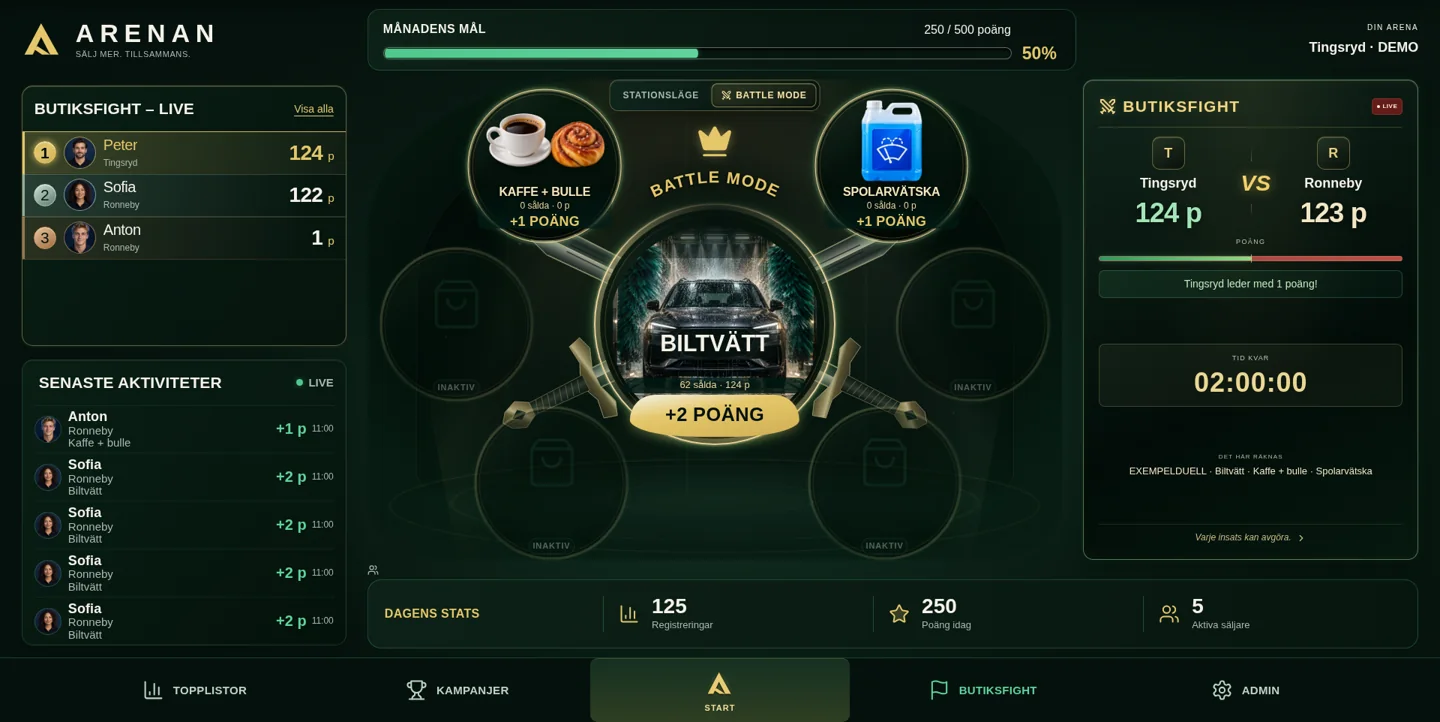
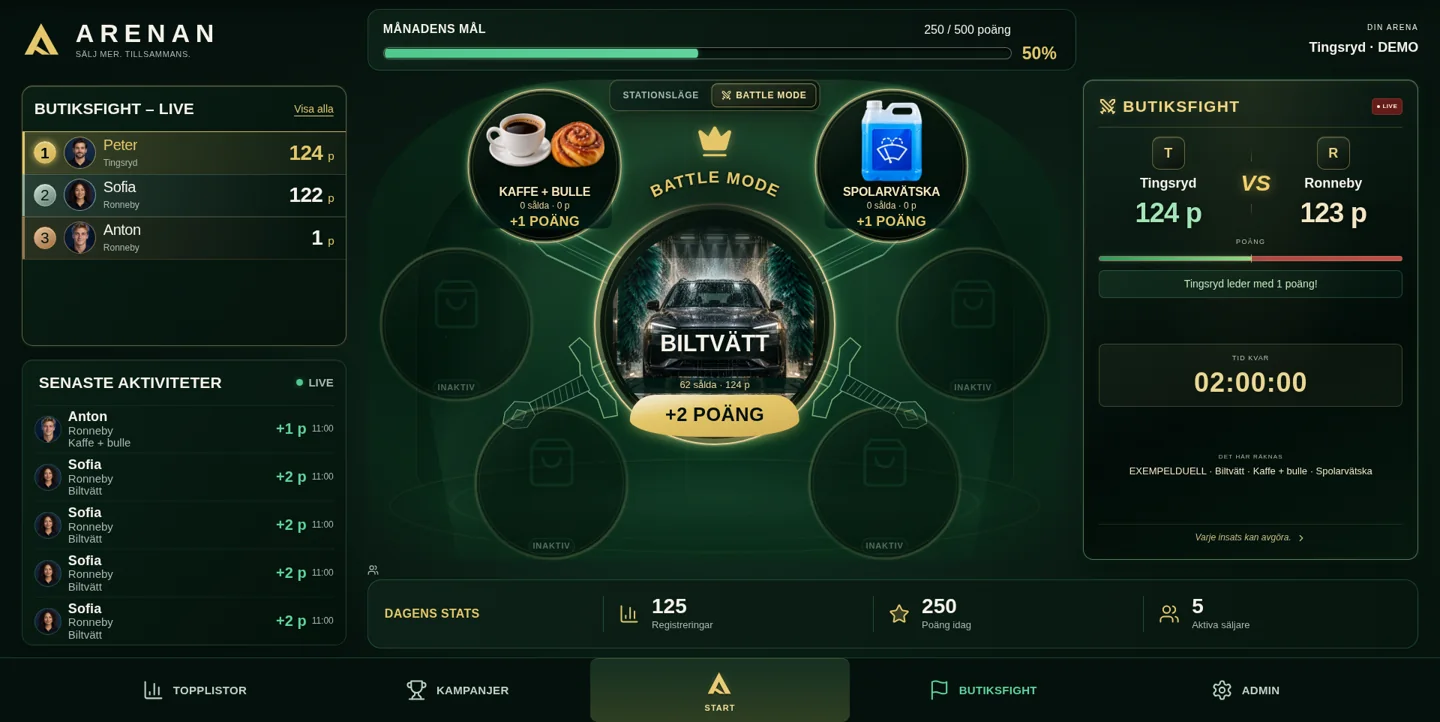
Arena V1: polish Battle Mode atmosphere

Changed region(s): [[0.3125, 0.1219, 0.6562, 0.6704]]

diff --git a/src/arena-battle-mode.css b/src/arena-battle-mode.css
@@ -60,3 +60,9 @@
 
 @media(max-height:500px) and (orientation:landscape){.arena-mode-switch button{gap:3px;letter-spacing:.01em!important}.arena-mode-switch button svg{width:11px;height:11px}}
 @media(min-width:951px) and (max-height:900px){.arena-mode-switch{top:-3px;padding:3px}.arena-mode-switch button{padding:5px 9px!important;font-size:10px;min-height:28px;letter-spacing:.04em}}
+/* V3: luminous green contours instead of solid metallic foreground blades.
+   Static SVG fills/strokes and stage gradients; no filter/blur/animation layer. */
+.arena-stage-start.is-battle .arena-stage-atmosphere{background:radial-gradient(ellipse at 50% 62%,#217f4938,transparent 68%),radial-gradient(ellipse at 50% 22%,#54ac7133,transparent 65%),radial-gradient(ellipse at 50% 48%,#011b0fde 12%,#01180ed9 52%,#072d1675 77%,transparent 100%)}
+.is-battle .arena-stage-beams{background:linear-gradient(118deg,transparent 22%,#87d6a219 29%,transparent 40%),linear-gradient(242deg,transparent 22%,#5fbf8a19 29%,transparent 40%),radial-gradient(ellipse at 50% 15%,#a0d9901c,transparent 55%)}
+.arena-battle-swords{opacity:.76}.arena-battle-swords .blade{fill:#0b432c70;stroke:#97e5aeaa;stroke-width:2.4}.arena-battle-swords .blade-edge{stroke:#ccf1bf;stroke-width:1.3;opacity:.55}.arena-battle-swords .blade-fuller{stroke:#63c58e;stroke-width:1;opacity:.4}.arena-battle-swords .sword-guard{fill:#103c2a;stroke:#a6d395;stroke-width:2}.arena-battle-swords .sword-grip{fill:#082a1d;stroke:#82bc95;stroke-width:1.5}.arena-battle-swords .sword-binding{stroke:#8cba8b;opacity:.65}.arena-battle-swords .sword-pommel-frame{fill:#103e2a;stroke:#a4d29b;stroke-width:1.5}.arena-battle-swords .sword-pommel{fill:#1c5337;stroke:#d3dfaa}
+.arena-stage-start.is-battle .arena-orb:not(:disabled){box-shadow:0 0 2px #e4d39a8c,0 0 15px #59b67e3b,0 0 28px #368d5726,inset 0 1px 6px #d9c7961c,inset 0 -9px 18px #0006}.arena-stage-start.is-battle .arena-orb-focus:not(:disabled){box-shadow:0 0 3px #ead7a099,0 0 20px #9cba733b,0 0 36px #44a46d35,inset 0 0 12px #d4bd6122}

diff --git a/src/ArenaBattle.tsx b/src/ArenaBattle.tsx
@@ -15,9 +15,9 @@ export function BattleSwords() {
    <path className="blade-fuller" d="M394 128 391 583M406 128 409 583"/>
    <g transform="translate(0 80)">
    <path className="sword-guard" fill={`url(#${id}-gold)`} d="M328 536 351 528 385 540 415 540 449 528 472 536 466 558 434 554 416 562 384 562 366 554 334 558Z"/>
-   <path fill={`url(#${id}-leather)`} stroke="#8f805b" d="M386 559 414 559 411 663 389 663Z"/>
+   <path className="sword-grip" fill={`url(#${id}-leather)`} stroke="#8f805b" d="M386 559 414 559 411 663 389 663Z"/>
    {Array.from({length:8},(_,i)=><path key={i} className="sword-binding" d={`M389 ${570+i*11}l22 6`}/>)}
-   <path fill={`url(#${id}-gold)`} stroke="#b9a773" d="M388 659 412 659 424 680 415 702 400 713 385 702 376 680Z"/>
+   <path className="sword-pommel-frame" fill={`url(#${id}-gold)`} stroke="#b9a773" d="M388 659 412 659 424 680 415 702 400 713 385 702 376 680Z"/>
    <path className="sword-pommel" d="m400 670 10 12-10 15-10-15Z"/>
    </g>
   </g>)}

diff --git a/public/arena-presentation/README.md b/public/arena-presentation/README.md
@@ -6,7 +6,7 @@ They contain only the isolated Showtime synthetic cast and ledger.
 
 Captured from `.showtime-product` at 1920×1080, with the presenter toolbar
 outside the captured element, then proportionally reduced to 1440px and
-compressed to WebP. Source build: local Night Build, based on checkpoint de24968.
+compressed to WebP. Source build: local Night Build with Battle V3 contours; based on checkpoint 20932cf.
 
 - product-station.webp: Station Mode, seven activities, leader/feed/pulse.
 - product-leader.webp: existing Ny etta hero after Peter overtakes Alva.
